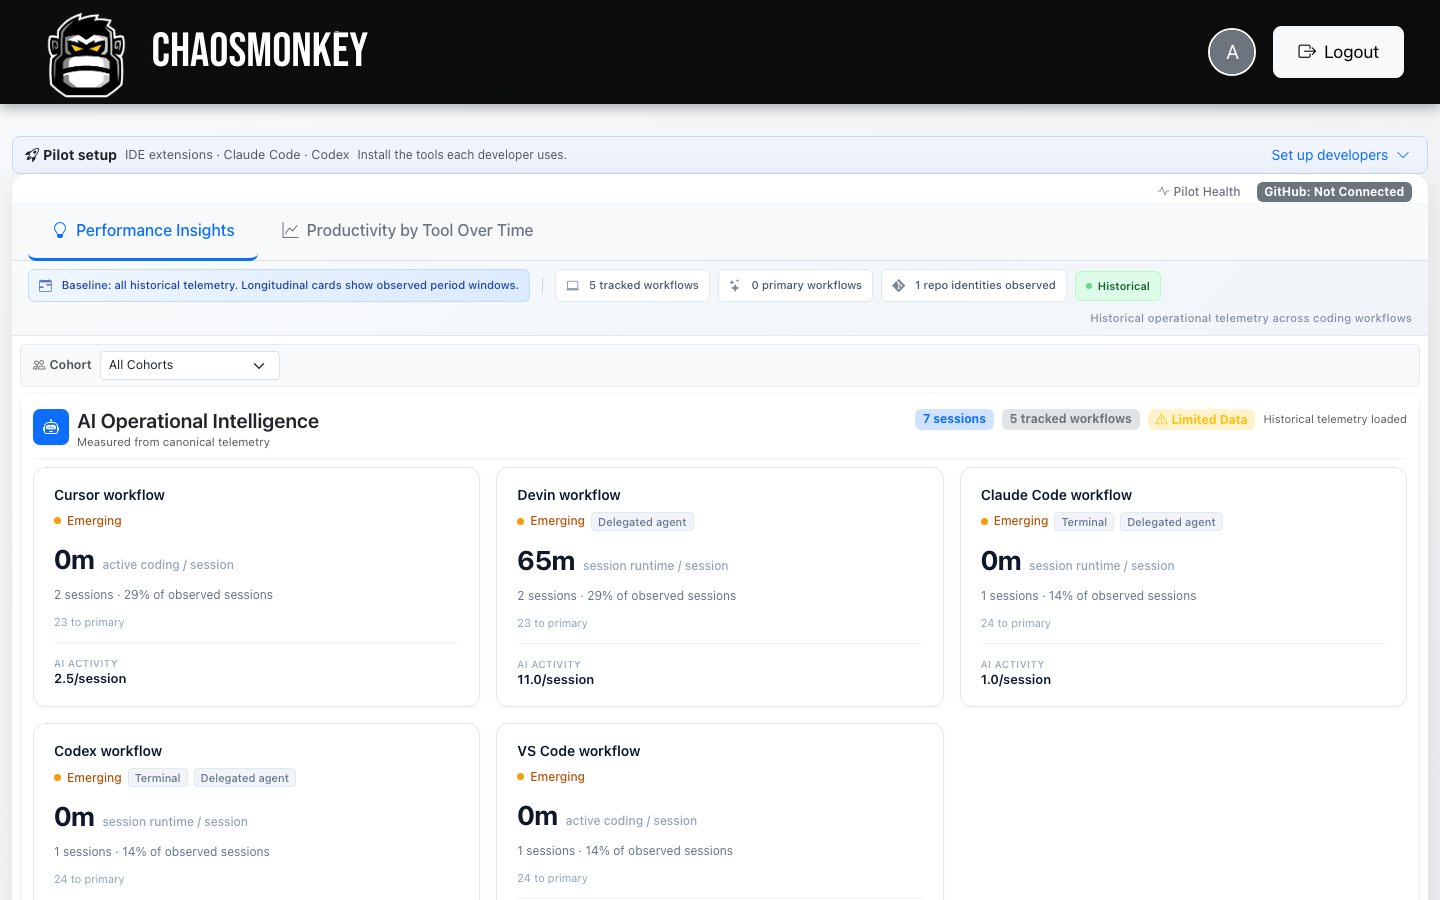
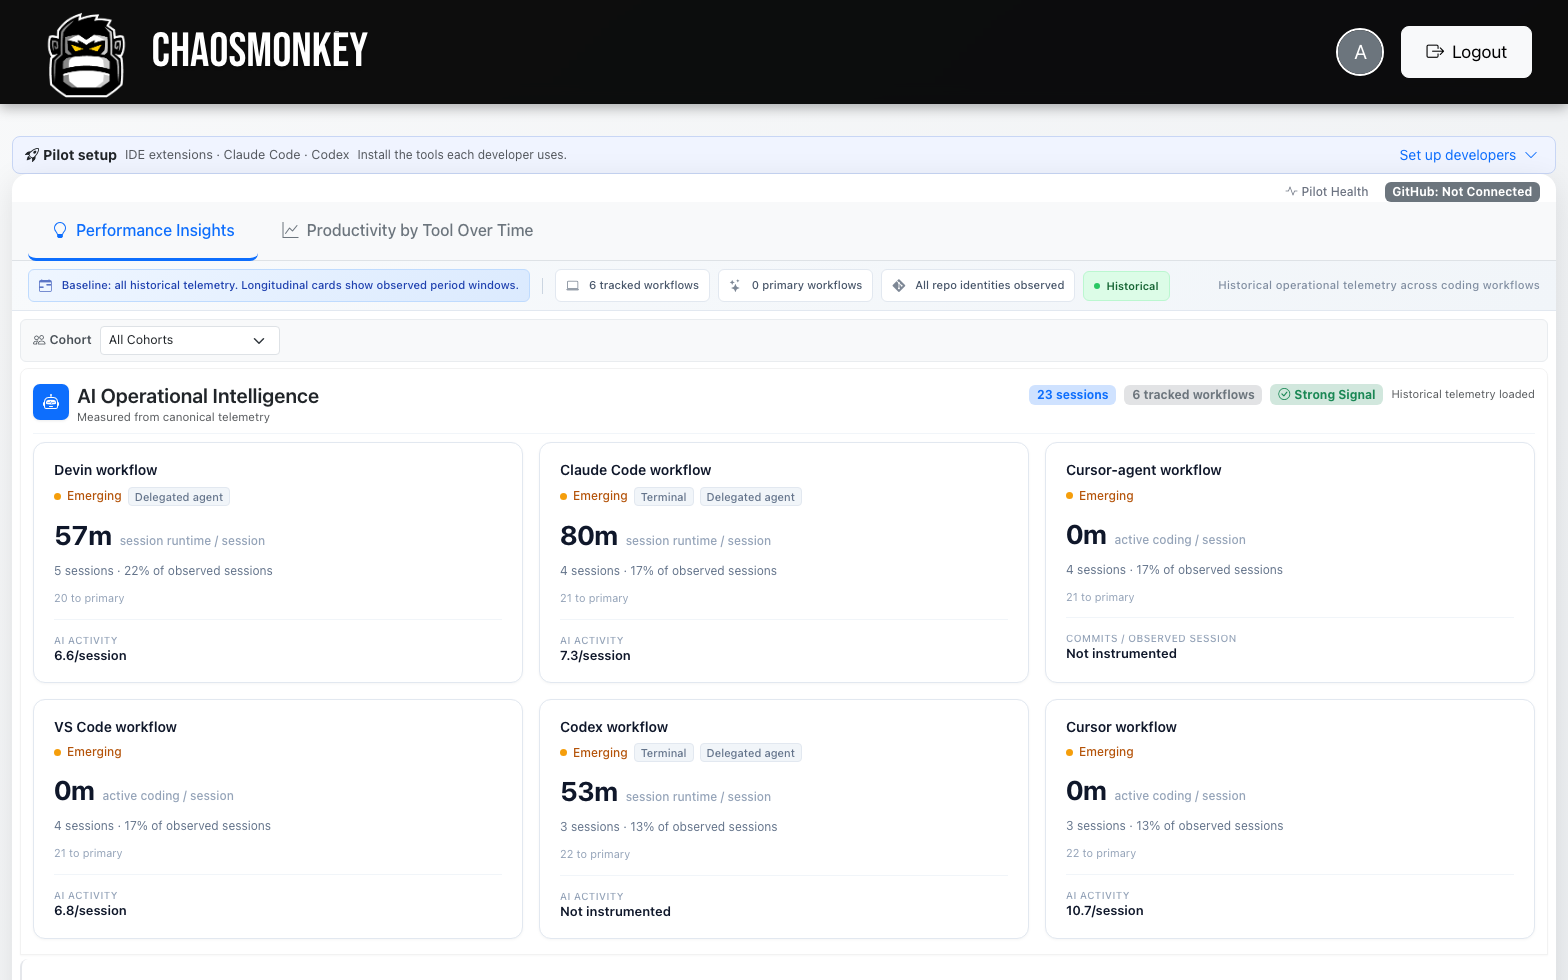
Add product gallery and name acknowledgment to README
Captures ten real v0.1.0 surfaces from a synthetic-data install
(dashboards, PBT cards/time series, PI evidence gating, enrollment,
Pilot Health, GitHub setup, login) and organizes them in
docs/product-gallery.md. Adds the approved "Why ChaosMonkey?"
naming acknowledgment and the "We're open" release note.

Generated with [Devin](https://devin.ai)

diff --git a/docs/product-gallery.md b/docs/product-gallery.md
@@ -1,0 +1,98 @@
+# Product gallery
+
+Screenshots captured from a real `v0.1.0` all-in-one container. Every image
+shows **synthetic demo data only** — generated by
+[`tools/demo/telemetry-simulator.js`](../tools/demo/telemetry-simulator.js)
+against three enrolled developer identities. No customer or production
+telemetry appears anywhere in this gallery.
+
+Where a feature depends on configuration that was intentionally left
+unconfigured (GitHub integration, billing) or on evidence thresholds the demo
+dataset does not yet meet (Performance Insights), the screenshot shows the
+real unconfigured/evidence-gated state — we do not fake populated screens.
+
+## Analytics
+
+### AI Operational Intelligence
+
+Per-workflow session analytics across every tracked tool — session runtime,
+AI activity per session, adoption share, and instrumented coverage. Each
+card is attributed to a distinct workflow (Cursor, Claude Code, Codex,
+Devin, VS Code, Cursor Agent).
+
+![AI Operational Intelligence](screenshots/dashboard.png)
+
+### Productivity by tool — cards
+
+Per-workflow AI activity with historical averages, peaks, and an ops ticker
+across all tracked workflows.
+
+![Productivity by tool](screenshots/productivity-by-tool.png)
+
+### Productivity by tool — time series
+
+The same metrics as a time series, with cohort, developer, repository, and
+workflow-comparison filters.
+
+![Productivity by tool — time series](screenshots/pbt-time-series.png)
+
+### Performance Insights — evidence gating
+
+Performance Insights only fires on sufficient evidence. This install shows
+the honest "collecting evidence" state: the engine reports how much data it
+has, what thresholds apply, and what findings unlock next. Screenshots of
+mature findings would require a dataset we did not fabricate.
+
+![Performance Insights — evidence gating](screenshots/performance-insights.png)
+
+## Team setup and enrollment
+
+### Client setup
+
+The "Pilot setup" panel lists every supported client with download and
+setup actions — IDE extension (VS Code / Cursor / Devin), Claude Code,
+Codex, and the Cursor Agents companion.
+
+![Client setup panel](screenshots/setup-developers.png)
+
+### Developer enrollments
+
+Each developer gets a personal enrollment credential for the supported
+clients — no dashboard login is required to send telemetry.
+
+![Developer enrollments](screenshots/team-enrollments.png)
+
+### Roster and dashboard users
+
+Enrolled developers show connection status and installation counts; cohort
+assignment and dashboard-user invites live on the same page.
+
+![Enrollment roster and dashboard users](screenshots/enrollments-list.png)
+
+## Operations
+
+### Pilot Health
+
+Operational health for the install: telemetry freshness, extension-version
+distribution across installations, active sources, and token/installation
+counts. This is the screen an administrator watches during rollout.
+
+![Pilot Health](screenshots/pilot-health.png)
+
+### GitHub integration — real unconfigured state
+
+The GitHub Engineering Data card, shown unconfigured — the actual state of
+a fresh install. Connecting GitHub enables optional delivery evidence
+(repositories, PRs, commits, deployments); identity-only logins produce
+zero engineering evidence.
+
+![GitHub integration settings](screenshots/github-integration.png)
+
+## Access
+
+### Sign in
+
+Admin and member sign-in. Accounts are created by an organization
+administrator — there is no self-serve signup.
+
+![Sign in](screenshots/login.png)

diff --git a/README.md b/README.md
@@ -11,6 +11,9 @@ GitHub integration. It was built and operated as a hosted product with real
 engineering teams and is now open source so anyone can self-host, inspect,
 and extend it.
 
+> **We're open.** `v0.1.0` — Community Preview — is available now under
+> Apache-2.0.
+
 ## Quick start (Docker)
 
 The recommended install is a single all-in-one container — nginx, PHP-FPM,
@@ -39,8 +42,8 @@ infrastructure. GitHub integration is optional; telemetry works without it.
 
 ## What it looks like
 
-*AI Operational Intelligence — five tracked workflows rendered from
-synthetic demo data.*
+*AI Operational Intelligence — six tracked workflows across 23 sessions,
+rendered from synthetic demo data.*
 
 ![ChaosMonkey dashboard — AI Operational Intelligence](docs/screenshots/dashboard.png)
 
@@ -48,6 +51,11 @@ synthetic demo data.*
 (simulated demo data).*
 
 ![Productivity by tool](docs/screenshots/productivity-by-tool.png)
+
+More views — time-series analytics, Performance Insights evidence gating,
+developer enrollment, Pilot Health, and GitHub setup — in the
+[product gallery](docs/product-gallery.md). All gallery screenshots use
+synthetic data.
 
 ## What it does
 
@@ -125,6 +133,20 @@ ChaosMonkey collects **aggregate activity telemetry** — event counts, duration
 tool and session metadata — designed to avoid source code or file contents.
 Self-hosting means your data stays on your infrastructure. See
 [PRIVACY.md](PRIVACY.md) for exactly what each client sends.
+
+## Why ChaosMonkey?
+
+Yes, we know about Netflix's Chaos Monkey.
+
+The original Chaos Monkey made infrastructure failures visible by
+deliberately creating them. Ours is concerned with a different kind of
+chaos: what happens when AI coding tools enter the software development
+lifecycle.
+
+Different monkeys. Different chaos.
+
+*ChaosMonkey is an independent project. It is not affiliated with,
+endorsed by, or connected to Netflix.*
 
 ## License
 
